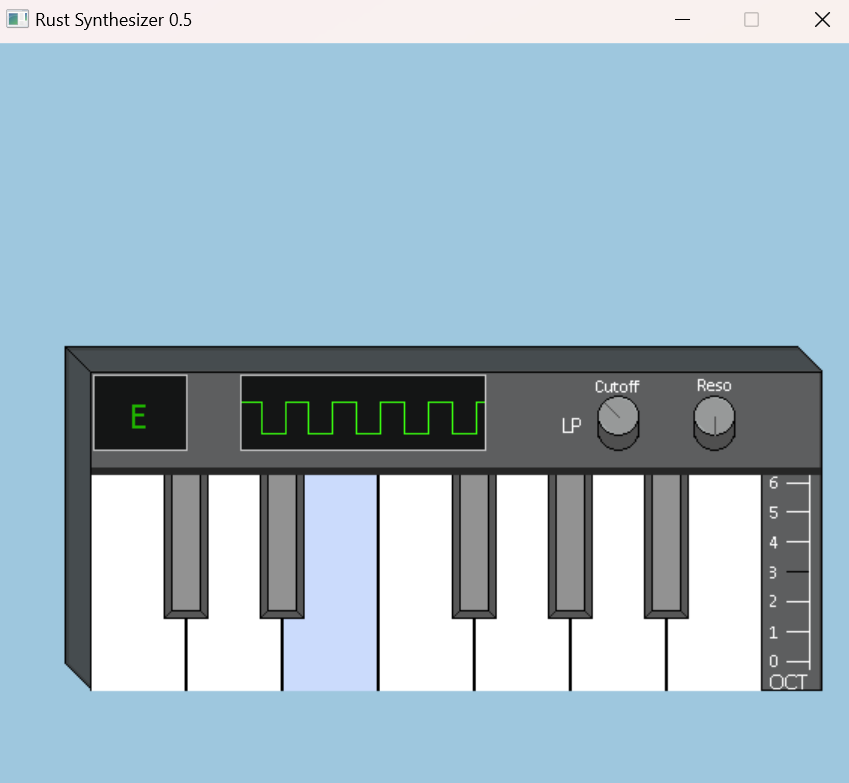
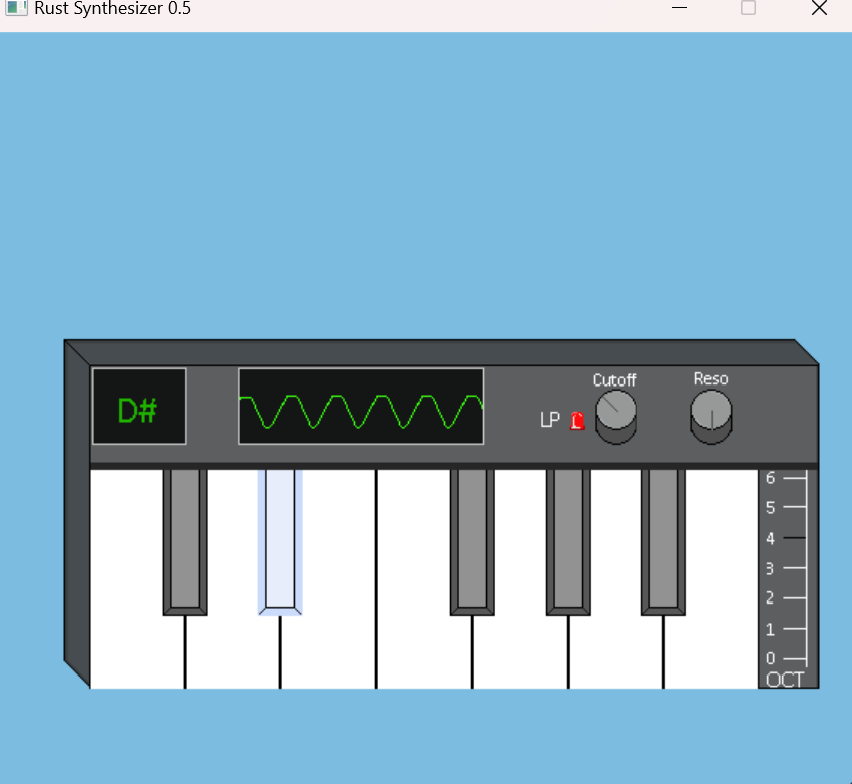
[GUI] Added the ability to turn the LPF on/off by pressing the key 'F'. A bulb sprite has been incorporated in order to indicate its activation

diff --git a/src/state/utils.rs b/src/state/utils.rs
@@ -37,8 +37,8 @@ use crate::waveforms::square_wave::SquareWave;
             }
         }
 
-    // Toggle the waveform between SINE and SQUARE when 'F' key is pressed
-    if window.is_key_pressed(Key::F, KeyRepeat::No) {
+    // Toggle the waveform between SINE and SQUARE when 'S' key is pressed
+    if window.is_key_pressed(Key::S, KeyRepeat::No) {
         state.toggle_waveform();
     }
 
@@ -50,6 +50,11 @@ use crate::waveforms::square_wave::SquareWave;
     // Decrease the octave when 'F1' key is pressed and the current octave is above the lower bound
     if window.is_key_pressed(Key::F1, KeyRepeat::No) && state.get_current_octave() > OCTAVE_LOWER_BOUND {
         state.decrease_octave();
+    }
+
+    // Activate/Deactivate LPF (low pass filter) when 'F' key is pressed
+    if window.is_key_pressed(Key::F, KeyRepeat::No) {
+        state.toggle_lpf();
     }
 
     // Increase the filter cutoff coefficient when 'F4' key is pressed
@@ -107,6 +112,7 @@ pub fn handle_musical_note(state: &mut State, sink: &mut Sink, note: Note) {
 /// - `grid_width`: Width of the grid in tiles.
 /// - `grid_height`: Height of the grid in tiles.
 pub fn update_buffer_with_state(state: &State, sprites: &Sprites, window_buffer: &mut Vec<u32>, rack_index: usize, display_index: usize) {
+
     // Draw rack
     draw_rack_sprite(sprites, window_buffer, rack_index);
 
@@ -118,6 +124,9 @@ pub fn update_buffer_with_state(state: &State, sprites: &Sprites, window_buffer:
 
     // Draw all tangents as overlay on key sprites in their idle state first
     draw_idle_tangent_sprites(sprites, window_buffer, &tangent_map);
+
+    // Draw the bulb
+    draw_bulb_sprite(state, sprites, window_buffer);
 
     // Draw the cutoff knob for LPF
     draw_filter_cutoff_knob_sprite(state, sprites, window_buffer);
@@ -137,6 +146,7 @@ pub fn update_buffer_with_state(state: &State, sprites: &Sprites, window_buffer:
 
     // Check if a key is pressed
     if let Some((_, note)) = &state.pressed_key {
+
         // Get sprite index associated with the note to be drawn (A, C# etc.)
         let note_sprite_index = get_note_sprite_index(note).unwrap_or_default();
 
@@ -288,6 +298,18 @@ pub fn draw_octave_fader_sprite(octave: i32, sprites: &Sprites, window_buffer: &
 /// - `window_buffer`: Mutable reference to a vector of `u32` representing the pixel data to be displayed.
 pub fn draw_buffer(window: &mut Window, window_buffer: &mut Vec<u32>) {
     window.update_with_buffer(&window_buffer, WINDOW_WIDTH, WINDOW_HEIGHT).unwrap();
+}
+
+/// Draws idle knobs.
+///
+/// # Parameters
+/// - `state`: Reference to the current `State` containing the state of the synthesizer.
+/// - `sprites`: A reference to the `Sprites` struct containing all the sprite images.
+/// - `window_buffer`: A mutable reference to the buffer representing the window's pixels.
+pub fn draw_bulb_sprite(state: &State, sprites: &Sprites, window_buffer: &mut Vec<u32>) {
+    draw_sprite(6 * sprites.knob[0].width as usize,
+                5 * sprites.knob[0].height as usize + 10,
+                &sprites.bulb[state.lpf_active], window_buffer, WINDOW_WIDTH);
 }
 
 /// Draws idle knobs.

diff --git a/src/state/mod.rs b/src/state/mod.rs
@@ -18,7 +18,8 @@ pub struct State {
     waveform: Waveform,
     pressed_key: Option<(Key, Note)>,
     waveform_sprite_index: usize,
-    filter_cutoff: f32
+    filter_cutoff: f32,
+    lpf_active: usize
 }
 
 // Initialize Synthesizer State
@@ -30,6 +31,7 @@ impl State {
             pressed_key: None, // Default is no key
             waveform_sprite_index: WAVEFORM_SINE, // Set default waveform sprite index to Sine
             filter_cutoff: 0.0, // Set default cutoff to 0.0
+            lpf_active: 0, // Default for LPF is deactivated
         }
     }
 
@@ -52,16 +54,22 @@ impl State {
         }
     }
 
+    /// Toggle LPF on/off
+    pub fn toggle_lpf(&mut self) {
+        self.lpf_active ^= 1;
+        self.filter_cutoff = 0.0;
+    }
+
     /// Increases the filter cutoff
     pub fn increase_filter_cutoff(&mut self) {
-        if self.filter_cutoff <= 0.9 {
+        if self.lpf_active == 1 && self.filter_cutoff <= 0.9 {
             self.filter_cutoff += 0.142857;
         }
     }
 
     /// Decreases the filter cutoff
     pub fn decrease_filter_cutoff(&mut self) {
-        if self.filter_cutoff >= 0.15 {
+        if self.lpf_active == 1 && self.filter_cutoff >= 0.15 {
             self.filter_cutoff -= 0.142857;
         }
     }

diff --git a/src/graphics/sprites.rs b/src/graphics/sprites.rs
@@ -21,7 +21,8 @@ pub struct Sprites {
     pub rack: Vec<Sprite>,
     pub display_sine: Vec<Sprite>,
     pub display_square: Vec<Sprite>,
-    pub octave_fader: Vec<Sprite>
+    pub octave_fader: Vec<Sprite>,
+    pub bulb: Vec<Sprite>
 }
 
 impl Sprites {
@@ -35,7 +36,8 @@ impl Sprites {
             display_sine: load_sprites_from_map("assets/display_sine.png", 164, 51),
             display_square: load_sprites_from_map("assets/display_square.png", 164, 51),
             rack: load_sprites_from_map("assets/rack.png", 600, 496),
-            octave_fader: load_sprites_from_map("assets/octave_fader.png", 28, 143)
+            octave_fader: load_sprites_from_map("assets/octave_fader.png", 28, 143),
+            bulb: load_sprites_from_map("assets/bulb.png", 12, 12)
         }
     }
 }

diff --git a/README.md b/README.md
@@ -55,10 +55,11 @@ Octave Control:
     F2: Increase the octave (6 is maximum)
 
 Filter Control:
-
+    
+    F:  Turn low pass filter on/off     
     F3: Decrease the filter cutoff (0.15 is minimum)
     F4: Increase the filter cutoff (0.99 is maximum)
 
 Waveform Control:
 
-    F: Toggle waveform between sine and square
+    S: Toggle waveform between sine and square
